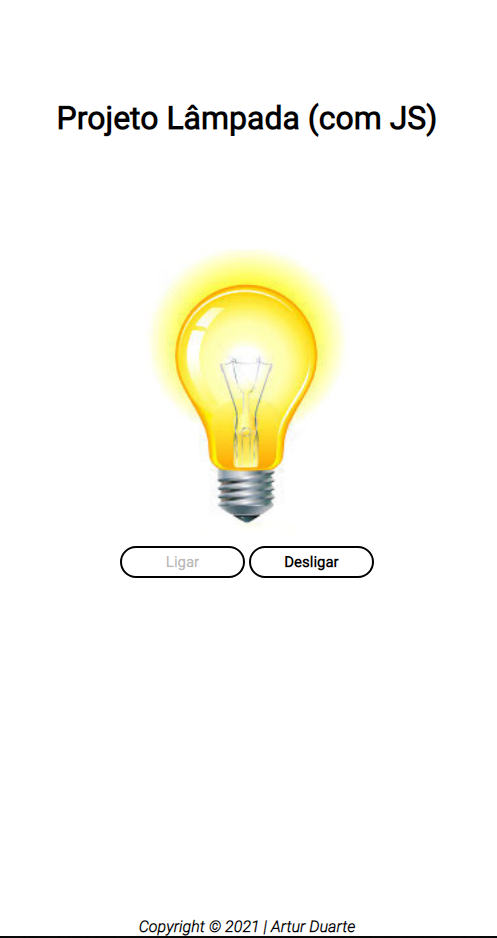
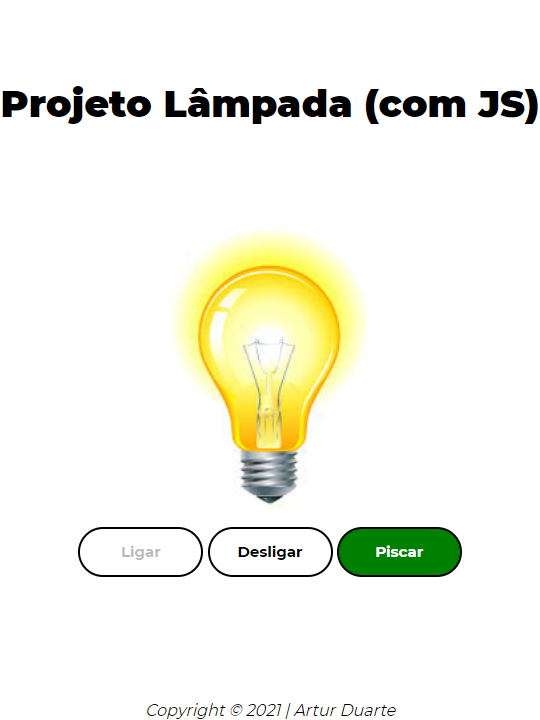
Mudança de cores entre Piscar e Parar

diff --git a/script.js b/script.js
@@ -9,6 +9,7 @@ const getId = (elemento) => document.getElementById(elemento)
 const lampada = getId("lampada")
 let idLigar
 let idDesligar
+const botaoPiscar = getId("piscar")
 
 const botoesLigaDesliga = (estadoLigado, estadoDesligado, estadoPiscar) => {
     const ligar = getId("ligar")
@@ -41,6 +42,8 @@ const desligarLampada = () => {
 const quebrarLampada = () => {
     lampada.src = "img/quebrada.jpg"
     botoesLigaDesliga(true, true, true)
+    botaoPiscar.classList.remove("green")
+    botaoPiscar.classList.remove("red")
 }
 
 const pararPiscar = () => {
@@ -49,15 +52,18 @@ const pararPiscar = () => {
 }
 
 const piscarLampada = () => {
-    const botaoPiscar = getId("piscar")
 
     if (botaoPiscar.textContent == "Piscar") {
         idLigar = setInterval(ligarLampada, 500)
         idDesligar = setInterval(desligarLampada, 1000)
         botaoPiscar.textContent = "Parar"
+        botaoPiscar.classList.remove("green")
+        botaoPiscar.classList.add("red")
     } else {
         pararPiscar()
         botaoPiscar.textContent = "Piscar"
+        botaoPiscar.classList.remove("red")
+        botaoPiscar.classList.add("green")
     }
 }
 

diff --git a/index.html b/index.html
@@ -27,7 +27,7 @@
         <div>
             <button id='ligar'>Ligar</button>
             <button id='desligar' disabled>Desligar</button>
-            <button id='piscar'>Piscar</button>
+            <button id='piscar' class="green">Piscar</button>
         </div>
     </main>
 

diff --git a/style.css b/style.css
@@ -70,3 +70,17 @@ button:hover {
     background-color: black;
     color: white;
 }
+
+.green {
+    background-color: green;
+    color: white;
+}
+
+.red {
+    background-color: red;
+    color: white;
+}
+
+.quebrada {
+    background-color: transparent;
+}
